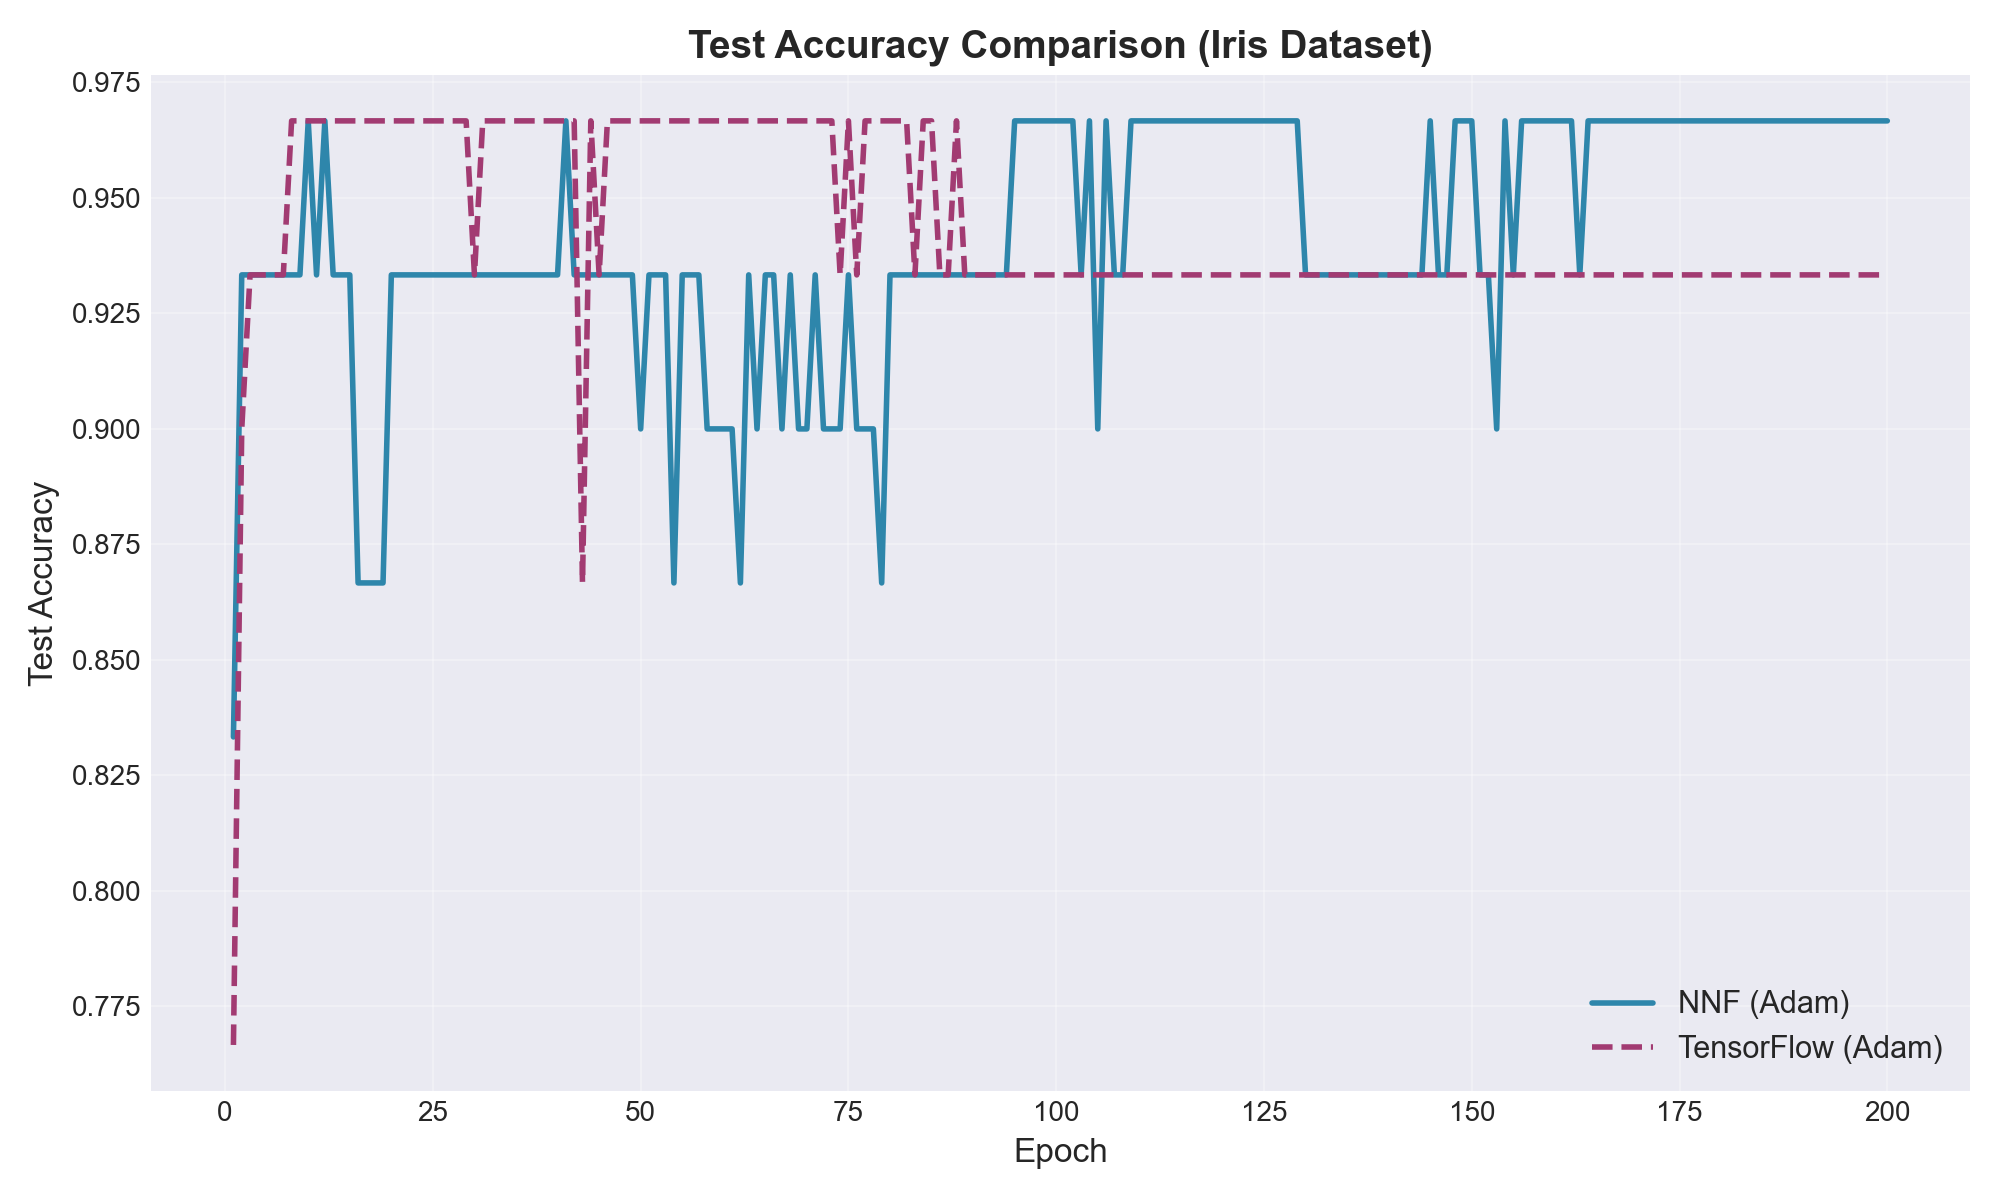
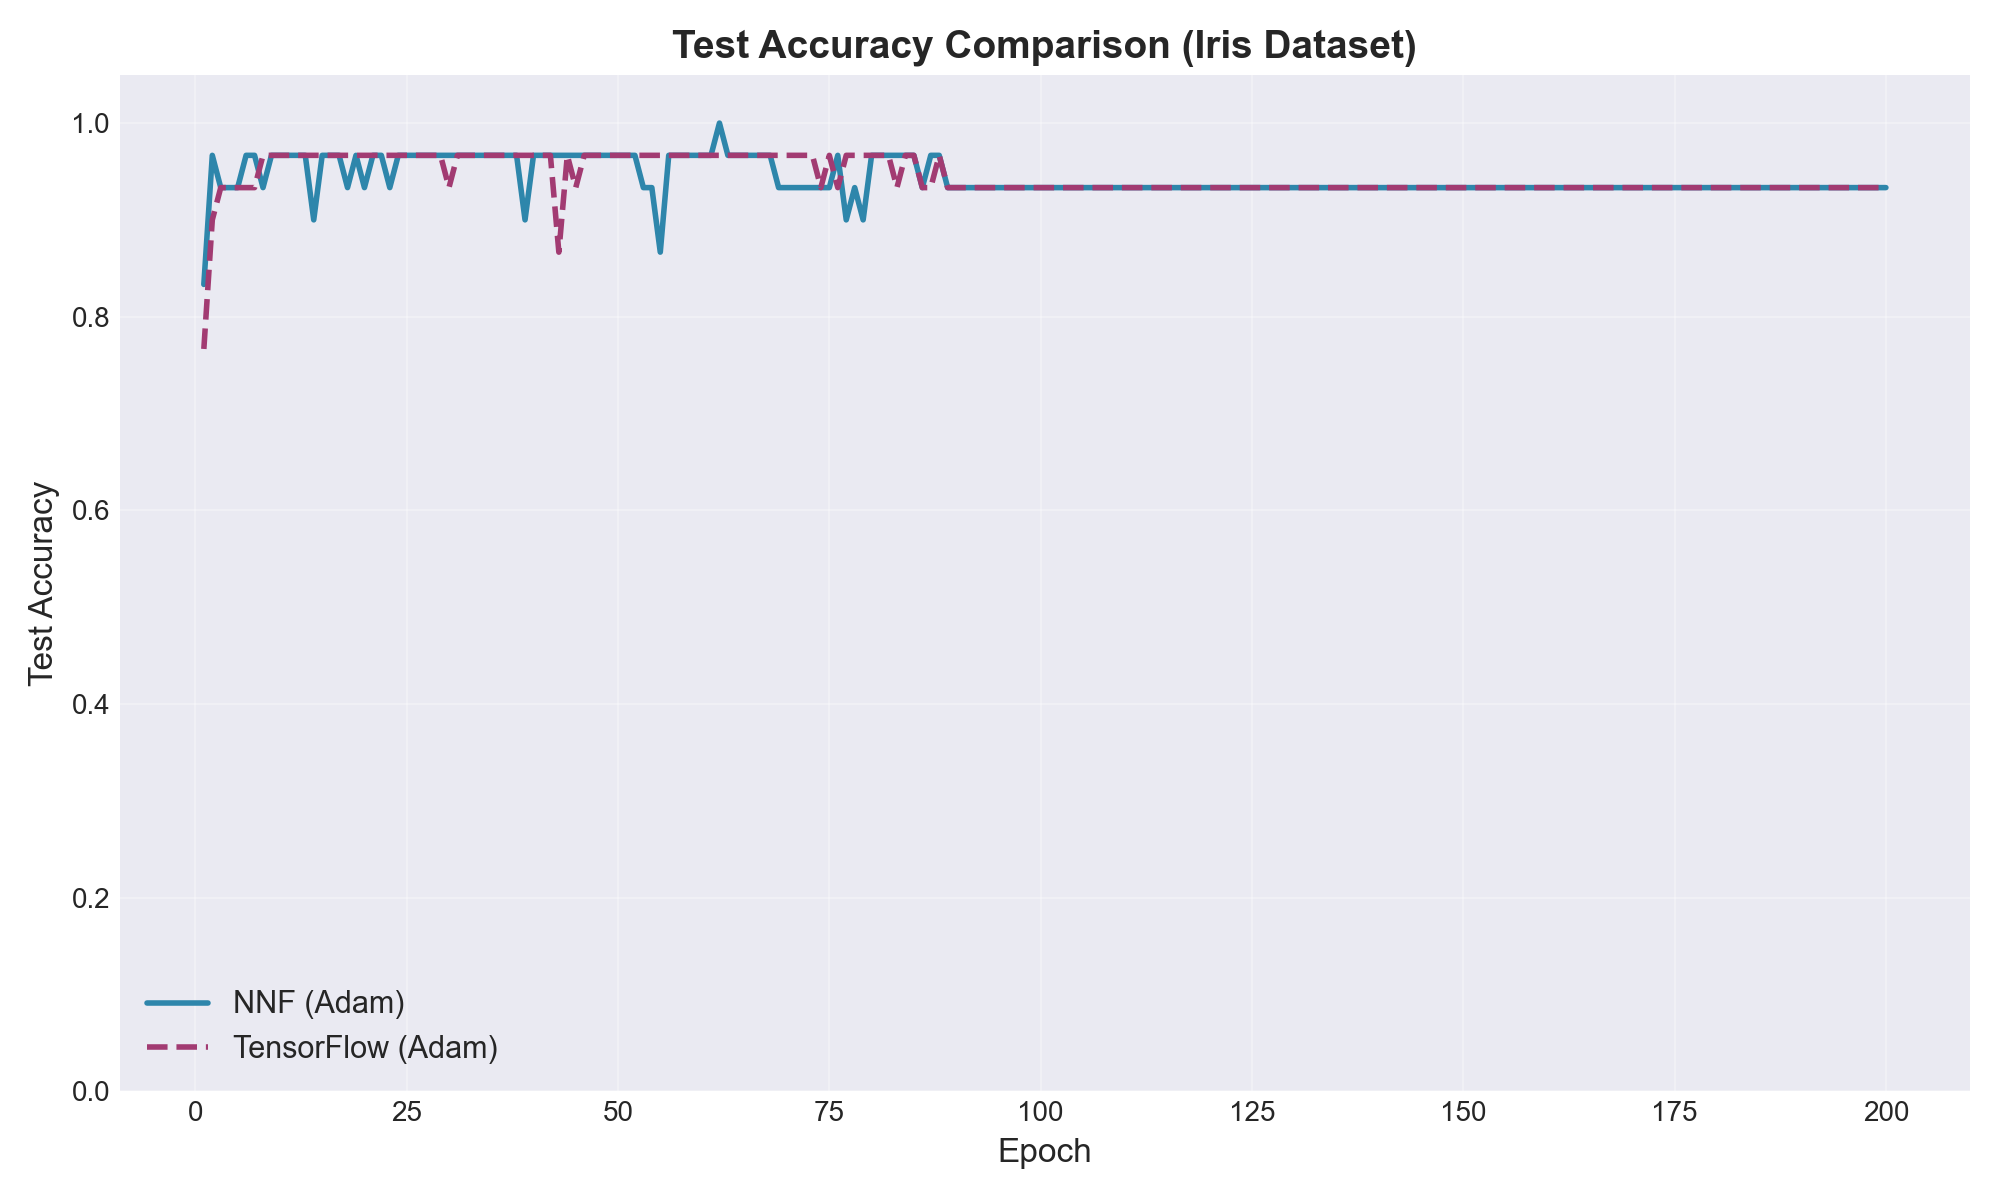
Updates

diff --git a/Iris_dataset_test.py b/Iris_dataset_test.py
@@ -1,7 +1,8 @@
 """
 Iris Dataset Comparison: NNF vs TensorFlow (Simple Version)
-This script provides a direct, simple comparison, focusing only on
-training time, final accuracy, and continuous loss & accuracy graphs.
+This script provides a direct, simple comparison, focusing on
+training time, final accuracy, continuous loss & accuracy graphs,
+and a plot of actual vs. predicted classes.
 """
 
 import numpy as np
@@ -16,6 +17,7 @@ import time
 import random
 
 # Import refactored NNF framework
+# Make sure NNF.py is in the same directory
 from NNF import (Tensor, Dense, ReLU, Softmax, Model,
                  CrossEntropyLoss, Adam)
 
@@ -42,8 +44,9 @@ def prepare_iris_data():
     
     print(f"Features: {X_train_scaled.shape[1]}, Classes: {n_classes}")
     # Return y_test (original labels) for easy accuracy calculation
+    # Also return original X_test for the new plot, and feature names
     return (X_train_scaled, X_test_scaled, y_train, y_test,
-            y_train_onehot, y_test_onehot)
+            y_train_onehot, y_test_onehot, iris.feature_names, X_test)
 
 def convert_to_nnf_format(X, y):
     """Convert numpy arrays to NNF Tensor format (column vectors)."""
@@ -102,7 +105,14 @@ def train_nnf_model(model, X_train, y_train, X_test, y_test_original, epochs=200
     
     for epoch in range(1, epochs + 1):
         total_loss = 0
-        for x, y_true in zip(X_train, y_train):
+        
+        # Shuffle data each epoch
+        indices = list(range(n_samples))
+        random.shuffle(indices)
+        X_train_shuffled = [X_train[i] for i in indices]
+        y_train_shuffled = [y_train[i] for i in indices]
+        
+        for x, y_true in zip(X_train_shuffled, y_train_shuffled):
             # Forward pass
             y_pred = model.forward(x)
             loss = loss_fn.forward(y_pred, y_true)
@@ -144,7 +154,8 @@ def train_tensorflow_model(model, X_train, y_train, X_test, y_test_onehot, epoch
         epochs=epochs,
         batch_size=1,  # Match NNF (online learning)
         validation_data=(X_test, y_test_onehot), # Track test metrics
-        verbose=0      # Suppress TF's own logger
+        verbose=0,     # Suppress TF's own logger
+        shuffle=True
     )
     training_time = time.time() - start_time
     
@@ -163,16 +174,17 @@ def plot_training_curves(nnf_losses, tf_losses):
     print("\nGenerating training loss graph...")
     fig, ax = plt.subplots(figsize=(10, 6))
     
-    epochs = np.arange(1, len(nnf_losses) + 1)
+    epochs_range = np.arange(1, len(nnf_losses) + 1)
     
-    ax.plot(epochs, nnf_losses, label='NNF (Adam)', color='#2E86AB', linewidth=2)
-    ax.plot(epochs, tf_losses, label='TensorFlow (Adam)', color='#A23B72', linewidth=2, linestyle='--')
+    ax.plot(epochs_range, nnf_losses, label='NNF (Adam)', color='#2E86AB', linewidth=2)
+    ax.plot(epochs_range, tf_losses, label='TensorFlow (Adam)', color='#A23B72', linewidth=2, linestyle='--')
     
     ax.set_xlabel('Epoch', fontsize=12)
     ax.set_ylabel('Loss', fontsize=12)
     ax.set_title('Training Loss Comparison (Iris Dataset)', fontsize=14, fontweight='bold')
     ax.legend(fontsize=11)
     ax.grid(True, alpha=0.3)
+    ax.set_ylim(bottom=0) # Loss can't be negative
     
     plt.tight_layout()
     plt.savefig('iris_simple_training_curves.png', dpi=200)
@@ -184,21 +196,67 @@ def plot_accuracy_curves(nnf_accuracies, tf_accuracies):
     print("Generating training accuracy graph...")
     fig, ax = plt.subplots(figsize=(10, 6))
     
-    epochs = np.arange(1, len(nnf_accuracies) + 1)
+    epochs_range = np.arange(1, len(nnf_accuracies) + 1)
     
-    ax.plot(epochs, nnf_accuracies, label='NNF (Adam)', color='#2E86AB', linewidth=2)
-    ax.plot(epochs, tf_accuracies, label='TensorFlow (Adam)', color='#A23B72', linewidth=2, linestyle='--')
+    ax.plot(epochs_range, nnf_accuracies, label='NNF (Adam)', color='#2E86AB', linewidth=2)
+    ax.plot(epochs_range, tf_accuracies, label='TensorFlow (Adam)', color='#A23B72', linewidth=2, linestyle='--')
     
     ax.set_xlabel('Epoch', fontsize=12)
     ax.set_ylabel('Test Accuracy', fontsize=12)
     ax.set_title('Test Accuracy Comparison (Iris Dataset)', fontsize=14, fontweight='bold')
     ax.legend(fontsize=11)
     ax.grid(True, alpha=0.3)
+    ax.set_ylim(0, 1.05) # Accuracy is between 0 and 1
     
     plt.tight_layout()
     plt.savefig('iris_simple_accuracy_curves.png', dpi=200)
     plt.show()
     print("Graph saved as 'iris_simple_accuracy_curves.png'")
+
+def plot_prediction_comparison(X_test_original, y_test, nnf_preds, tf_preds, feature_names, feature_index=0):
+    """
+    Plots Actual vs. Predicted classes against a chosen input feature.
+    X_test_original is the *unscaled* test data for easier interpretation.
+    """
+    print("\nGenerating prediction comparison graph...")
+    
+    feature_name = feature_names[feature_index]
+    X_feature = X_test_original[:, feature_index]
+    
+    # Sort all arrays based on the chosen feature for a clean line plot
+    sort_indices = np.argsort(X_feature)
+    X_sorted = X_feature[sort_indices]
+    y_actual_sorted = y_test[sort_indices]
+    nnf_preds_sorted = nnf_preds[sort_indices]
+    tf_preds_sorted = tf_preds[sort_indices]
+    
+    fig, (ax1, ax2) = plt.subplots(2, 1, figsize=(12, 10), sharex=True)
+    
+    # --- NNF Plot ---
+    ax1.plot(X_sorted, y_actual_sorted, 'o-', color='blue', label='Actual Class', markersize=5, linewidth=1, alpha=0.7)
+    ax1.plot(X_sorted, nnf_preds_sorted, 'x--', color='red', label='NNF Predicted Class', markersize=5, linewidth=1, alpha=0.7)
+    ax1.set_title('NNF: Actual vs. Predicted Class', fontsize=13)
+    ax1.set_ylabel('Class (0, 1, 2)', fontsize=11)
+    ax1.legend(loc='best')
+    ax1.grid(True, alpha=0.3)
+    ax1.set_yticks([0, 1, 2]) # Ensure ticks are only on class labels
+
+    # --- TensorFlow Plot ---
+    ax2.plot(X_sorted, y_actual_sorted, 'o-', color='blue', label='Actual Class', markersize=5, linewidth=1, alpha=0.7)
+    ax2.plot(X_sorted, tf_preds_sorted, 'x--', color='red', label='TF Predicted Class', markersize=5, linewidth=1, alpha=0.7)
+    ax2.set_title('TensorFlow: Actual vs. Predicted Class', fontsize=13)
+    ax2.set_xlabel(f'Input Feature: {feature_name} (sorted)', fontsize=12)
+    ax2.set_ylabel('Class (0, 1, 2)', fontsize=11)
+    ax2.legend(loc='best')
+    ax2.grid(True, alpha=0.3)
+    ax2.set_yticks([0, 1, 2])
+
+    fig.suptitle(f'Prediction Comparison vs. {feature_name}', fontsize=16, fontweight='bold')
+    plt.tight_layout(rect=[0, 0.03, 1, 0.96]) # Adjust for suptitle
+    plt.savefig('iris_simple_prediction_comparison.png', dpi=200)
+    plt.show()
+    print("Graph saved as 'iris_simple_prediction_comparison.png'")
+
 
 def main():
     print("=" * 70)
@@ -206,12 +264,13 @@ def main():
     print("=" * 70)
     
     # 1. Prepare data
-    (X_train, X_test, y_train, y_test,
-     y_train_onehot, y_test_onehot) = prepare_iris_data()
+    (X_train_scaled, X_test_scaled, y_train, y_test,
+     y_train_onehot, y_test_onehot,
+     feature_names, X_test_original) = prepare_iris_data()
     
     # 2. Convert data for NNF
-    X_train_nnf, y_train_nnf = convert_to_nnf_format(X_train, y_train_onehot)
-    X_test_nnf, y_test_nnf = convert_to_nnf_format(X_test, y_test_onehot)
+    X_train_nnf, y_train_nnf = convert_to_nnf_format(X_train_scaled, y_train_onehot)
+    X_test_nnf, _ = convert_to_nnf_format(X_test_scaled, y_test_onehot)
     
     # 3. Create identical models
     nnf_model = create_nnf_model()
@@ -225,7 +284,7 @@ def main():
         nnf_model, X_train_nnf, y_train_nnf, X_test_nnf, y_test, epochs
     )
     tf_losses, tf_accuracies, tf_time = train_tensorflow_model(
-        tf_model, X_train, y_train_onehot, X_test, y_test_onehot, epochs
+        tf_model, X_train_scaled, y_train_onehot, X_test_scaled, y_test_onehot, epochs
     )
     
     # 5. Get final accuracies
@@ -248,13 +307,28 @@ def main():
     plot_training_curves(nnf_losses, tf_losses)
     plot_accuracy_curves(nnf_accuracies, tf_accuracies) # New plot
     
+    # 8. Get final predictions for the new plot
+    nnf_predictions = [nnf_model.forward(x) for x in X_test_nnf]
+    nnf_pred_classes = np.array([np.argmax([val[0] for val in pred.data]) for pred in nnf_predictions])
+    
+    tf_pred_probs = tf_model.predict(X_test_scaled, verbose=0)
+    tf_pred_classes = np.argmax(tf_pred_probs, axis=1)
+    
+    # 9. Plot the new actual vs. predicted graph
+    # We use X_test_original (unscaled) for a more interpretable X-axis
+    plot_prediction_comparison(
+        X_test_original, y_test, nnf_pred_classes, tf_pred_classes, feature_names, feature_index=0
+    )
+    
     print("\n" + "=" * 70)
     print("Simple comparison completed.")
     print("=" * 70)
 
 if __name__ == "__main__":
+    # Set seeds for reproducibility
     np.random.seed(42)
     tf.random.set_seed(42)
     random.seed(42)
+    
+    # Run the main comparison
     main()
-

diff --git a/testing.py b/testing.py
@@ -3,31 +3,45 @@ import numpy as np
 from sklearn.datasets import load_diabetes
 from sklearn.model_selection import train_test_split
 from sklearn.preprocessing import StandardScaler
+import matplotlib.pyplot as plt
+
+# Import the NNF components needed for a manual loop
 from NNF import (Tensor, Model, Dense, ReLU,
-                 MSELoss, Adam, Trainer)
+                 MSELoss, Adam)
 
 def convert_to_nnf_format(X, y):
+    """Converts numpy arrays to list of NNF column-vector Tensors"""
     X_tensors = [Tensor([[float(val)] for val in sample]) for sample in X]
     Y_tensors = [Tensor([[float(val)] for val in sample]) for sample in y]
     return X_tensors, Y_tensors
 
 def main():
+    print("--- Loading Diabetes Dataset ---")
     X_np, y_np = load_diabetes(return_X_y=True)
+    
+    # Reshape y to be (n_samples, 1) for scaling
     y_np = y_np.reshape(-1, 1)
+
     X_train_np, X_test_np, y_train_np, y_test_np = train_test_split(
         X_np, y_np, test_size=0.2, random_state=42
     )
+
+    # Scale all data
     scaler_X = StandardScaler()
     X_train_scaled = scaler_X.fit_transform(X_train_np)
     X_test_scaled = scaler_X.transform(X_test_np)
+    
     scaler_y = StandardScaler()
     y_train_scaled = scaler_y.fit_transform(y_train_np)
     y_test_scaled = scaler_y.transform(y_test_np)
+    
+    # Convert scaled data to NNF format
     X_train_nnf, Y_train_nnf = convert_to_nnf_format(X_train_scaled, y_train_scaled)
-    X_test_nnf, Y_test_nnf = convert_to_nnf_format(X_test_scaled, y_test_scaled)
+    # X_test_nnf, Y_test_nnf = convert_to_nnf_format(X_test_scaled, y_test_scaled) # Not needed for just training
+
     n_features = X_train_np.shape[1]
     
-
+    # --- Define Model and Training Components ---
     model = Model([
         Dense(n_features, 16),
         ReLU(),
@@ -35,15 +49,63 @@ def main():
         ReLU(),
         Dense(8, 1)
     ])
-    trainer = Trainer(model=model, loss_fn=MSELoss(), optimizer=Adam(lr=0.01), epochs=100)
-    trainer.fit(X_train_nnf, Y_train_nnf, verbose=True) 
-    predictions_scaled_nnf = trainer.predict(X_test_nnf)
-    pred_scaled_list = [p.data[0][0] for p in predictions_scaled_nnf]
-    pred_scaled_np = np.array(pred_scaled_list).reshape(-1, 1)
-    predictions_actual = scaler_y.inverse_transform(pred_scaled_np)
+
+    loss_fn = MSELoss()
+    optimizer = Adam(lr=0.001) # Using a smaller LR for more stable SGD
+    epochs = 50 # Fewer epochs needed to see the pattern
+
+    print("--- Starting Manual Training (to get squiggly curve) ---")
+    
+    # This list will store the loss for EVERY SINGLE SAMPLE
+    per_sample_loss_history = []
+    
+    n_samples = len(X_train_nnf)
+
+    for epoch in range(1, epochs + 1):
+        epoch_loss = 0.0
+        
+        # Iterate sample by sample (Stochastic Gradient Descent)
+        for x, y_true in zip(X_train_nnf, Y_train_nnf):
+            
+            # 1. Forward pass
+            y_pred = model.forward(x)
+            
+            # 2. Compute loss
+            loss = loss_fn.forward(y_pred, y_true)
+            per_sample_loss_history.append(loss) # Store the squiggly data
+            epoch_loss += loss
+            
+            # 3. Backward pass
+            grad_loss = loss_fn.backward()
+            model.backward(grad_loss)
+            
+            # 4. Optimizer step
+            params = model.get_params()
+            updated_params = optimizer.step(params)
+            model.set_params(updated_params)
+        
+        # Print average loss for the epoch
+        avg_epoch_loss = epoch_loss / n_samples
+        print(f"Epoch {epoch}/{epochs} | Average Loss: {avg_epoch_loss:.6f}")
+
+
+    # --- Plotting Results ---
+    print("--- Plotting Per-Sample Loss Curve ---")
+    
+    plt.figure(figsize=(10, 6))
+    # The x-axis is just the total number of samples processed
+    plt.plot(range(len(per_sample_loss_history)), per_sample_loss_history, 
+             label='Per-Sample Loss', color='blue', alpha=0.7, linewidth=1)
+    
+    plt.xlabel("Training Step (Sample by Sample)", fontsize=12)
+    plt.ylabel("Loss (MSE)", fontsize=12)
+    plt.title("NNF Model: 'Squiggly' Per-Sample Training Loss (Diabetes Dataset)", fontsize=14, fontweight='bold')
+    plt.legend()
+    plt.grid(True, linestyle='--', alpha=0.5)
+    plt.ylim(0, max(per_sample_loss_history[n_samples:]) * 0.5) # Zoom in past the initial drop
+    plt.show()
 
 if __name__ == "__main__":
     random.seed(42) 
     np.random.seed(42)
     main()
-

diff --git a/NNF/trainer.py b/NNF/trainer.py
@@ -4,7 +4,6 @@ Training utilities for neural networks with optimizer support
 from .model import Model
 from .losses import _Loss
 from .optimizers import Optimizer, SGD
-from .tensor import Tensor # Import Tensor for type checking
 
 
 class Trainer:
@@ -37,16 +36,16 @@ class Trainer:
             raise ValueError("Input data X cannot be empty.")
         if len(X) != len(Y):
             raise ValueError(f"Mismatch in number of samples between X ({len(X)}) and Y ({len(Y)}).")
-        if not all(isinstance(x, Tensor) for x in X) or not all(isinstance(y, Tensor) for y in Y):
-             raise TypeError("All elements in X and Y must be Tensors.")
 
     def fit(self, X, Y, verbose=True):
         """Train the model on dataset X, Y using the optimizer."""
         self._validate_dataset(X, Y)
         n_samples = len(X)
+        loss_history = [] # <-- ADD THIS LINE
         
         for epoch in range(1, self.epochs + 1):
             total_loss = 0
+            # Note: A more robust trainer would shuffle X and Y together here
             for i, (x, y_true) in enumerate(zip(X, Y)):
                 try:
                     # Forward pass
@@ -64,18 +63,21 @@ class Trainer:
                     self.model.set_params(updated_params)
                     
                 except (ValueError, TypeError, NotImplementedError) as e:
-                    print(f"Stopping training due to an error at epoch {epoch}, sample {i} (x.shape={x.shape}, y.shape={y_true.shape}): {e}")
-                    # Re-raise the exception to stop training
-                    raise e
+                    print(f"Stopping training due to an error at epoch {epoch}, sample {i}: {e}")
+                    return  # Exit the training loop
 
             avg_loss = total_loss / n_samples
+            loss_history.append(avg_loss) # <-- ADD THIS LINE
+            
             if verbose and (epoch % 10 == 0 or epoch == 1 or epoch == self.epochs):
                 print(f"Epoch {epoch}/{self.epochs} | Loss: {avg_loss:.6f}")
+                
+        return loss_history # <-- ADD THIS LINE
 
     def predict(self, X):
         """Return predictions for an input list of Tensors."""
-        if not isinstance(X, list) or not all(isinstance(x, Tensor) for x in X):
-            raise TypeError("Input X for prediction must be a list of Tensors.")
+        if not isinstance(X, list):
+            raise TypeError("Input X for prediction must be a list.")
         return [self.model.forward(x) for x in X]
 
     def evaluate(self, X, Y):
@@ -86,8 +88,6 @@ class Trainer:
         for x, y_true in zip(X, Y):
             y_pred = self.model.forward(x)
             total_loss += self.loss_fn.forward(y_pred, y_true)
-        
-        if n_samples == 0:
-            return 0.0
         return total_loss / n_samples
+
 

diff --git a/NNF/optimizers.py b/NNF/optimizers.py
@@ -148,5 +148,3 @@ class Adam(Optimizer):
         """Reset time step (optional, usually not needed)"""
         # We don't reset m and v to maintain momentum across epochs
         pass
-
-
